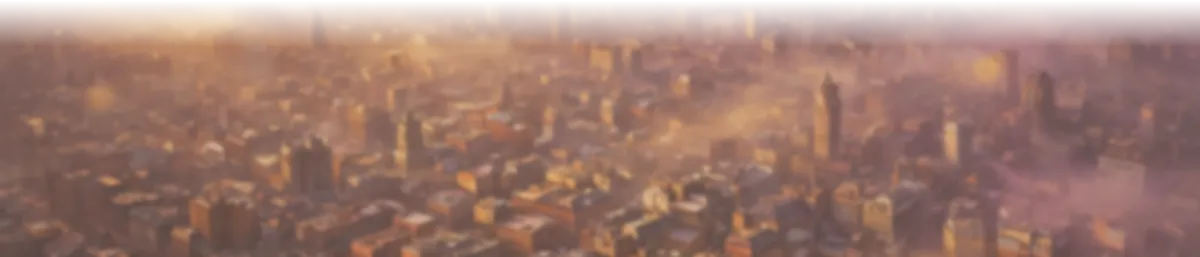
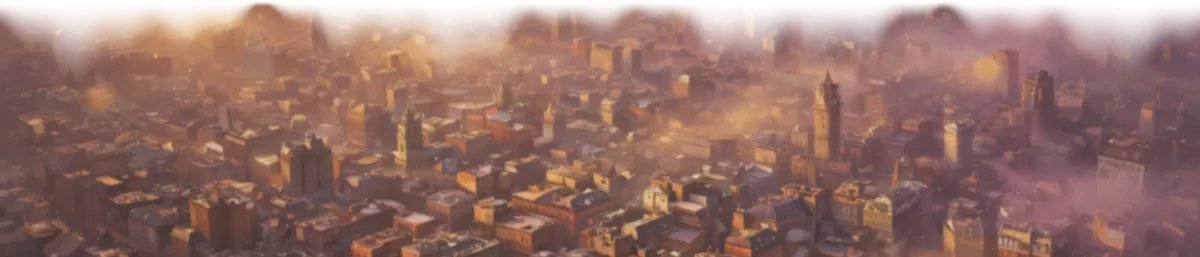
6loud DEV FORK 88 (Keith, 2026-11-14): CITY DUSK retune — the slices STAY. Keith tested FORK 87 on both screens and reversed the one-plate rebuild before it ever pushed: 'on my computer, i can see the slices. on my phone in portrait i cant see the slice. less bokeh would be good. lets keep the slice

diff --git a/6loud/dev/index.html b/6loud/dev/index.html
@@ -3056,12 +3056,12 @@ function dbgTick(ts) {
   if (mode === 'over') {   /* DEV FORK: on the results screen the readout SHRINKS to a two-line strip docked at the very bottom — the full panel was sprawled over the leaderboard (Keith's screenshot, 2026-11-11) */
     const el = $('dbg');
     el.style.top = 'auto'; el.style.bottom = 'calc(4px + env(safe-area-inset-bottom))'; el.style.fontSize = '9.5px';
-    el.textContent = 'FORK87 · OVER · ' + dbgFps + 'fps · ' + innerWidth + 'x' + innerHeight + ' · ' + selChar + ' R' + (PSKIN.rate || 1) + ' · DIST ' + Math.round(runFt()) + ' FT · SCR ' + score + ' · JMP ' + jumps + '\n' + ghostTxt + (DBG_EV.length ? ' · ' + DBG_EV[DBG_EV.length - 1] : '');
+    el.textContent = 'FORK88 · OVER · ' + dbgFps + 'fps · ' + innerWidth + 'x' + innerHeight + ' · ' + selChar + ' R' + (PSKIN.rate || 1) + ' · DIST ' + Math.round(runFt()) + ' FT · SCR ' + score + ' · JMP ' + jumps + '\n' + ghostTxt + (DBG_EV.length ? ' · ' + DBG_EV[DBG_EV.length - 1] : '');
     return;
   }
   const el = $('dbg'); el.style.top = ''; el.style.bottom = ''; el.style.fontSize = '';
   const lines = [
-    'FORK87 · ' + String(mode).toUpperCase() + ' · ' + dbgFps + 'fps · ' + innerWidth + 'x' + innerHeight + ' dpr' + (devicePixelRatio || 1),
+    'FORK88 · ' + String(mode).toUpperCase() + ' · ' + dbgFps + 'fps · ' + innerWidth + 'x' + innerHeight + ' dpr' + (devicePixelRatio || 1),
     'CHR ' + selChar + ' R' + (PSKIN.rate || 1) + ' · SPD ' + Math.round(speed) + ' · ZOOM ' + zoom.toFixed(2),
     'DIST ' + Math.round(runFt()) + ' FT · SCR ' + score + ' · JMP ' + jumps,
     'vy ' + Math.round(vy) + (grounded ? ' · GROUND' : ' · AIR ' + (airMove || '-')) + ' · DBL ' + (doubleArmed ? 'ARM' : doubleUsed ? 'USED' : '-') + ' · TPL ' + (tripleUsed ? 'USED' : '-'),
@@ -3340,7 +3340,7 @@ window.__optResetScores = function () { try { localStorage.setItem('sixlouddev_s
 { const b = document.getElementById('optBtn'); if (b) b.addEventListener('click', e => { e.stopPropagation(); openOptions(); }); const bk = document.getElementById('optBack'); if (bk) { bk.addEventListener('pointerdown', e => { e.stopPropagation(); }); bk.onclick = e => { if (e) e.stopPropagation(); document.getElementById('optPage').style.display = 'none'; }; bk.addEventListener('click', e => { e.stopPropagation(); document.getElementById('optPage').style.display = 'none'; }); }   /* DEV FORK 57: BACK answers on every tap path — pointerdown stopped (the arrows' pattern), onclick (the board back's own wiring), click as before; Keith's FORK 56 test found it dead */ const gh = document.getElementById('optGhosts'); if (gh) gh.addEventListener('click', e => { e.stopPropagation(); optToggleGhosts(); }); const dg2 = document.getElementById('optDebug'); if (dg2) dg2.addEventListener('click', e => { e.stopPropagation(); optToggleDebug(); }); const ct3 = document.getElementById('optCity'); if (ct3) ct3.addEventListener('click', e => { e.stopPropagation(); optToggleCity(); }); const bk3 = document.getElementById('optBokeh'); if (bk3) bk3.addEventListener('click', e => { e.stopPropagation(); optToggleBokeh(); });   /* DEV FORK 87: the demo toggles answer taps like their neighbours */   /* DEV FORK 73: the DEBUG toggle answers taps like its neighbours */ const mu2 = document.getElementById('optMusic'); if (mu2) mu2.addEventListener('click', e => { e.stopPropagation(); audToggle('m'); optUI(); }); const sf2 = document.getElementById('optSfx'); if (sf2) sf2.addEventListener('click', e => { e.stopPropagation(); audToggle('s'); optUI(); }); const rs = document.getElementById('optRestore'); if (rs) rs.addEventListener('click', e => { e.stopPropagation(); window.__restorePurchases(); }); const rx = document.getElementById('optReset'); if (rx) rx.addEventListener('click', e => { e.stopPropagation(); if (rx.dataset.arm) { delete rx.dataset.arm; rx.textContent = 'RESET'; rx.classList.remove('armed'); window.__optResetScores(); } else { rx.dataset.arm = '1'; rx.textContent = 'ARE YOU SURE?'; rx.classList.add('armed'); setTimeout(() => { delete rx.dataset.arm; rx.textContent = 'RESET'; rx.classList.remove('armed'); }, 3500); } }); }
 window.__optTest = { state: () => ({ ghostsOff: !!window.__optGhostsOff, m: !!window.__musOff, s: !!window.__sfxOff, city: !!window.__cityDuskOpt, bokeh: !!window.__bokehOpt }), toggleGhosts: optToggleGhosts, toggleCity: optToggleCity, toggleBokeh: optToggleBokeh, resetScores: window.__optResetScores, restore: window.__restorePurchases, open: openOptions };   /* DEV FORK 87: the demo toggles join the test surface */
 /* DEV FORK 87 — the demo machinery (Keith, 2026-11-14). CITY DUSK draws
-   its three baked plates + fog bands in the stood-down scenery slot;
+   its three baked plates + fog bands in the stood-down scenery slot (FORK 88: lighter bake, gentler climb fade — Keith);
    BOKEH runs the far plane through a 1/6 downscale canvas (re-rendered
    only when the sky bucket changes) and lays a sky-following fog wash
    over the distance. Both read their Options state through the two
@@ -3351,7 +3351,7 @@ window.__bokCache = new Map(); window.__bokBucketNow = 0; window.__bokPlane = 'f
 window.__bokSrc = function (img) { if (!img || !img.naturalWidth) return img; const bucket = window.__bokBucketNow || 0; const hit = window.__bokCache.get(img); if (hit && hit.b === bucket) return hit.c; try { const c = document.createElement('canvas'); c.width = Math.max(2, Math.round(img.naturalWidth / 6)); c.height = Math.max(2, Math.round(img.naturalHeight / 6)); const g2 = c.getContext('2d'); if (!g2) return img; g2.drawImage(img, 0, 0, c.width, c.height); c.naturalWidth = img.naturalWidth; c.naturalHeight = img.naturalHeight; window.__bokCache.set(img, { c: c, b: bucket }); return c; } catch (err) { return img; } };   /* DEV FORK 87: the downscale pass — the small canvas keeps the source's aspect stamps so every draw site sizes it exactly like the original */
 window.__bokPick = function (im) { if (!im) return im; if (window.__bokehOn() && window.__bokPlane === 'far') return window.__bokSrc(im) || im; return im; };   /* DEV FORK 87: __dressOne serves both planes — the pass applies on the far plane only */
 window.__bokWash = function (sky) { const vw2 = viewW / zoom, vh2 = viewH / zoom; const st = Math.max(0, Math.min(1, sky.star || 0)); const warm = [255, 183, 102]; const fog = sky.c[3].map((v, i) => Math.round(v + (warm[i] - v) * (1 - st) * 0.30)); const a = 0.10 + 0.22 * st; const gr = ctx.createLinearGradient(0, -vh2 * 0.15, 0, vh2 * 0.86); gr.addColorStop(0, 'rgba(' + fog[0] + ',' + fog[1] + ',' + fog[2] + ',0)'); gr.addColorStop(0.5, 'rgba(' + fog[0] + ',' + fog[1] + ',' + fog[2] + ',' + (a * 0.6).toFixed(3) + ')'); gr.addColorStop(0.78, 'rgba(' + fog[0] + ',' + fog[1] + ',' + fog[2] + ',' + a.toFixed(3) + ')'); gr.addColorStop(1, 'rgba(' + fog[0] + ',' + fog[1] + ',' + fog[2] + ',0)');   /* DEV FORK 87: the wash fades back out at its bottom — the first proof showed a hard lower edge reading as a line across the sea */ ctx.save(); ctx.fillStyle = gr; ctx.fillRect(-80, -vh2 * 0.15, vw2 + 160, vh2 * 1.01); ctx.restore(); };   /* DEV FORK 87: the fog wash — its colour chases the sky's horizon warmed toward sunset gold, its strength follows the darkness (sky.star) modestly */
-window.__cityDraw = function (sky) { const C = window.__CITYDUSK || {}; const far = C.far, mid = C.mid, near = C.near, band = C.fogband; if (!far || !far.naturalWidth) return; const vw2 = viewW / zoom, vh2 = viewH / zoom; const climb = Math.max(0, -camSmY - vh2 * 0.42); const fade = Math.max(0, Math.min(1, 1.15 - climb / 650)); if (fade <= 0.01) return; const plane = (img, topBase, pv, par, hgt, alpha) => { if (!img || !img.naturalWidth) return; const topY = topBase - camSmY * pv + vh2 * 0.55 - tiltY * par * 30; const tw = hgt * img.naturalWidth / img.naturalHeight; let off = (camX * par + tiltX * par * 90) % tw; if (off < 0) off += tw; ctx.save(); ctx.globalAlpha = alpha * fade; let ti = 0; for (let x = -off - tw; x < vw2 + tw; x += tw, ti++) { if (ti % 2 === 0) ctx.drawImage(img, x, topY, tw, hgt); else { ctx.save(); ctx.translate(x + tw, topY); ctx.scale(-1, 1); ctx.drawImage(img, 0, 0, tw, hgt); ctx.restore(); } } ctx.restore(); };   /* DEV FORK 87: alternate tiles mirror — a photo's left edge never meets its own right edge, so the tiling carries no seams */ const fogB = (topBase, pv, par, hgt, alpha) => { if (!band || !band.naturalWidth) return; const topY = topBase - camSmY * pv + vh2 * 0.55 - tiltY * par * 30; ctx.save(); ctx.globalAlpha = alpha * fade; for (let x = -80; x < vw2 + 80; x += 512) ctx.drawImage(band, x, topY, 512, hgt); ctx.restore(); }; plane(far, -185, 0.05, 0.05, vh2 * 0.35, 0.92); fogB(-128, 0.08, 0.08, vh2 * 0.175, 0.85); plane(mid, -58, 0.11, 0.11, vh2 * 0.31, 0.96); fogB(-10, 0.15, 0.15, vh2 * 0.16, 0.7); plane(near, 44, 0.20, 0.20, vh2 * 0.34, 1); };   /* DEV FORK 87: CITY DUSK — far plate (slowest drift), fog band, mid plate, fog band, near plate along the bottom; the city sinks and fades as he climbs, on the ridges' own climb law */
+window.__cityDraw = function (sky) { const C = window.__CITYDUSK || {}; const far = C.far, mid = C.mid, near = C.near, band = C.fogband; if (!far || !far.naturalWidth) return; const vw2 = viewW / zoom, vh2 = viewH / zoom; const climb = Math.max(0, -camSmY - vh2 * 0.42); const fade = Math.max(0.55, Math.min(1, 1.15 - climb / 3900));   /* DEV FORK 88: the altitude fade TURNED DOWN for the city only — FORK 87 borrowed the ridges' law (gone by ~750 climb) and Keith watched the city fade away as he climbed. Range x6 + a 0.55 floor: plainly visible at altitude, only a whisper of fade at the extremes. The ridges keep their own law */ if (fade <= 0.01) return; const shiftY = (vh2 + 70) - ((44 - camSmY * 0.20 + vh2 * 0.55 - tiltY * 0.20 * 30) + vh2 * 0.34);   /* DEV FORK 88: COVER-FIT (Keith) — shift the whole stack so the near plate's bottom lands 70 past the canvas bottom on any screen shape; no blank band under the city, ever */ const plane = (img, topBase, pv, par, hgt, alpha) => { if (!img || !img.naturalWidth) return; const topY = topBase - camSmY * pv + vh2 * 0.55 - tiltY * par * 30 + shiftY; const tw = hgt * img.naturalWidth / img.naturalHeight; let off = (camX * par + tiltX * par * 90) % tw; if (off < 0) off += tw; ctx.save(); ctx.globalAlpha = alpha * fade; let ti = 0; for (let x = -off - tw; x < vw2 + tw; x += tw, ti++) { if (ti % 2 === 0) ctx.drawImage(img, x, topY, tw, hgt); else { ctx.save(); ctx.translate(x + tw, topY); ctx.scale(-1, 1); ctx.drawImage(img, 0, 0, tw, hgt); ctx.restore(); } } ctx.restore(); };   /* DEV FORK 87: alternate tiles mirror — a photo's left edge never meets its own right edge, so the tiling carries no seams */ const fogB = (topBase, pv, par, hgt, alpha) => { if (!band || !band.naturalWidth) return; const topY = topBase - camSmY * pv + vh2 * 0.55 - tiltY * par * 30 + shiftY; ctx.save(); ctx.globalAlpha = alpha * fade; for (let x = -80; x < vw2 + 80; x += 512) ctx.drawImage(band, x, topY, 512, hgt); ctx.restore(); }; plane(far, -185, 0.05, 0.05, vh2 * 0.35, 0.92); fogB(-128, 0.08, 0.08, vh2 * 0.175, 0.85); plane(mid, -58, 0.11, 0.11, vh2 * 0.31, 0.96); fogB(-10, 0.15, 0.15, vh2 * 0.16, 0.7); fogB(-16, 0.20, 0.20, vh2 * 0.16, 0.8);   /* DEV FORK 88: a fog band across the near plate's top boundary, riding the near plate's own drift — the skyline emerges through fog, no straight edge under the cloud (Keith) */ plane(near, 44, 0.20, 0.20, vh2 * 0.34, 1); };   /* DEV FORK 87: CITY DUSK — far plate (slowest drift), fog band, mid plate, fog band, near plate along the bottom; the city sinks as he climbs and fades only gently, on its own turned-down law, and the stack is cover-fit to the frame's bottom (FORK 88) */
 if (new URLSearchParams(location.search).has('options')) setTimeout(openOptions, 2000);
 /* DEV FORK 53: THE NOTE WALLET (Keith, 2026-11-13 — notes are the currency; characters cost 3,000 notes or $0.99). The running tally lives in sixlouddev_notes on the device. */
 window.__notes = 0;

diff --git a/6loud/dev/citydusk/README.md b/6loud/dev/citydusk/README.md
@@ -1,4 +1,4 @@
-# CITY DUSK demo plates (DEV FORK 87, Keith 2026-11-14)
+# CITY DUSK demo plates (DEV FORK 87; retuned FORK 88, Keith 2026-11-14)
 
 Demo art for the CITY DUSK (DEMO) Options toggle. Fork-local; never ports
 to the live game without Keith's separate ruling.
@@ -9,12 +9,26 @@ to the live game without Keith's separate ruling.
   `renders/citydusk-src/` in the game workspace.
 - **Baking**: `tools/bake_citydusk.py` slices the master into three
   depth planes and bakes fog + bokeh in by code (Keith's rule: never
-  blur live on a phone):
-  - `far.webp` — top slice, heavy Gaussian blur, strong fog wash toward
-    (210,166,132), contrast ×0.70.
-  - `mid.webp` — middle slice, light blur, moderate wash, contrast ×0.87.
-  - `near.webp` — bottom slice, crisp; fog wash only along its bottom edge.
+  blur live on a phone). FORK 88 lightened the bake (Keith: the slices
+  stay, less bokeh):
+  - `far.webp` — top slice, Gaussian blur 2.75 (FORK 87: 5.5), fog wash
+    0.30 toward (210,166,132) (was 0.50), contrast ×0.85 (was ×0.72).
+  - `mid.webp` — middle slice, blur 1.0 (was 2.0), wash 0.18 (was 0.30),
+    contrast ×0.87.
+  - `near.webp` — bottom slice, crisp (blur 0.5); fog wash only along
+    its bottom edge. Unchanged from FORK 87.
   - `fogband.webp` — horizontal fog strip (fog colour, alpha ramping to
     full at 60% height), drawn between the planes in-game.
+- **Top-edge melt (FORK 88)**: every plate's top edge melts with an
+  irregular, noise-shaped alpha (melt depth varies along x: near up to
+  55% of its height, mid 34%, far 26%) so the skyline emerges from the
+  fog at uneven heights — the plates' straight top crop read as a hard
+  line under the title cloud. In-game, an extra fog band rides across
+  the near plate's top boundary for the same reason.
+- **Draw (FORK 88)**: the stack is cover-fit — shifted so the near
+  plate's bottom always lands past the canvas bottom (no blank band
+  under the city on any screen shape), and the city's altitude fade is
+  turned well down (range ×6, floor 0.55) so the city stays present at
+  8,000–10,000 FT; the ridges keep their own fade.
 - No code-drawn buildings, no lit windows anywhere in this demo — the
   city is art plates only (Keith rejected the City Nights look).
